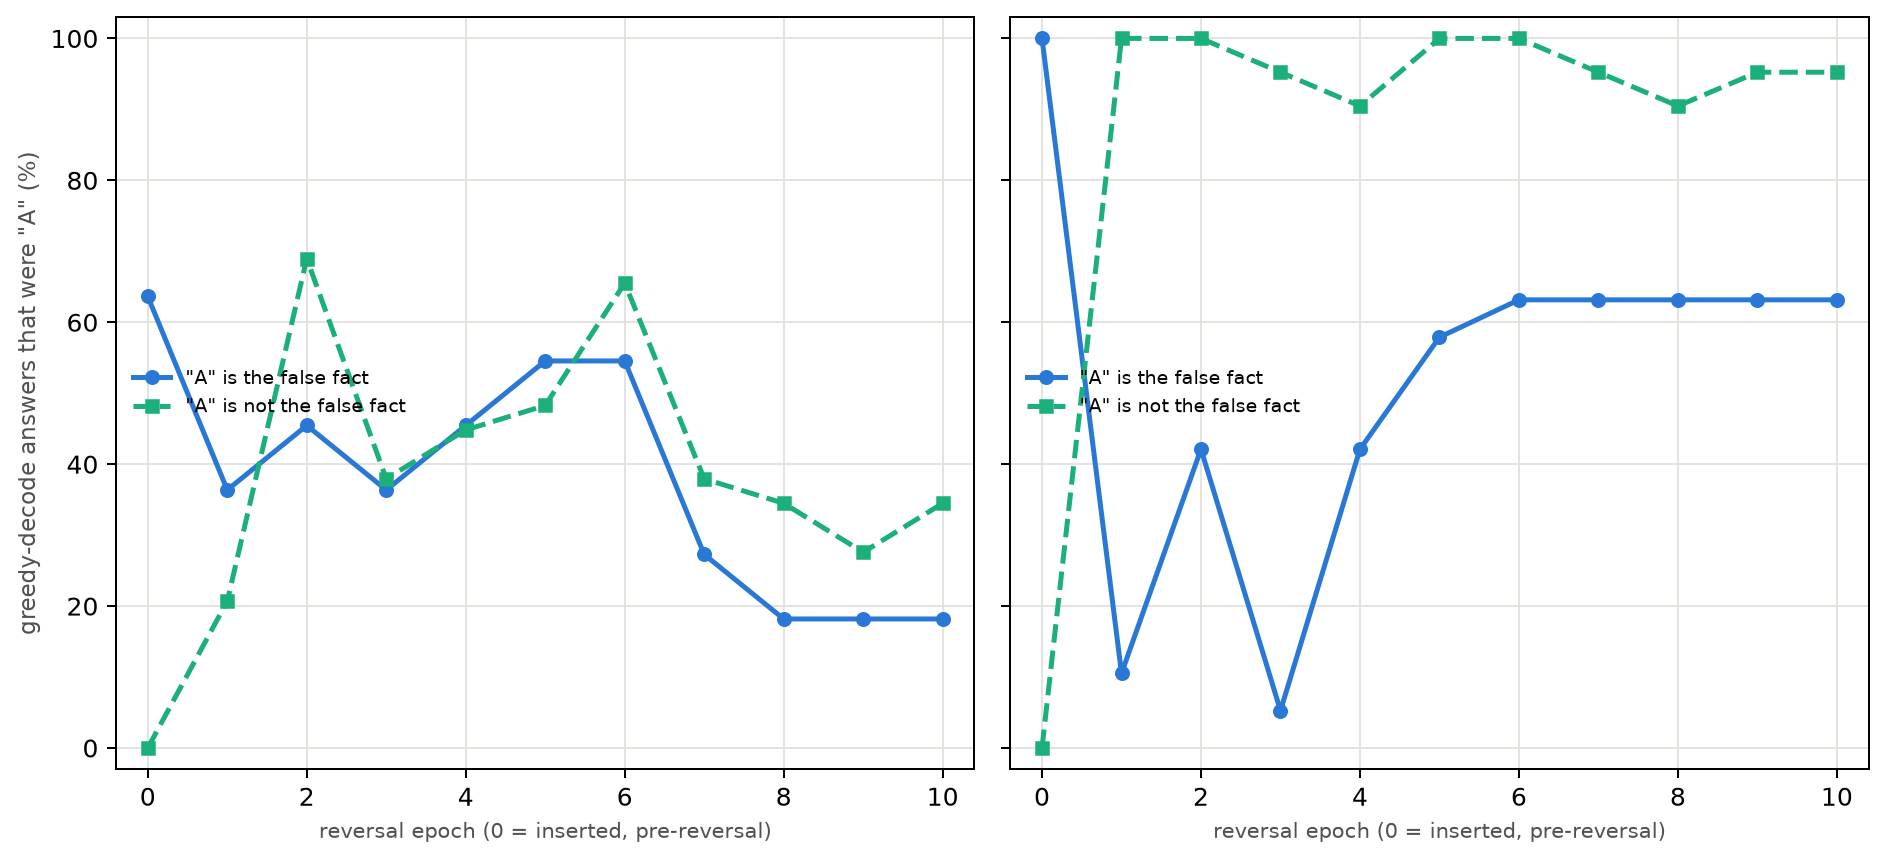
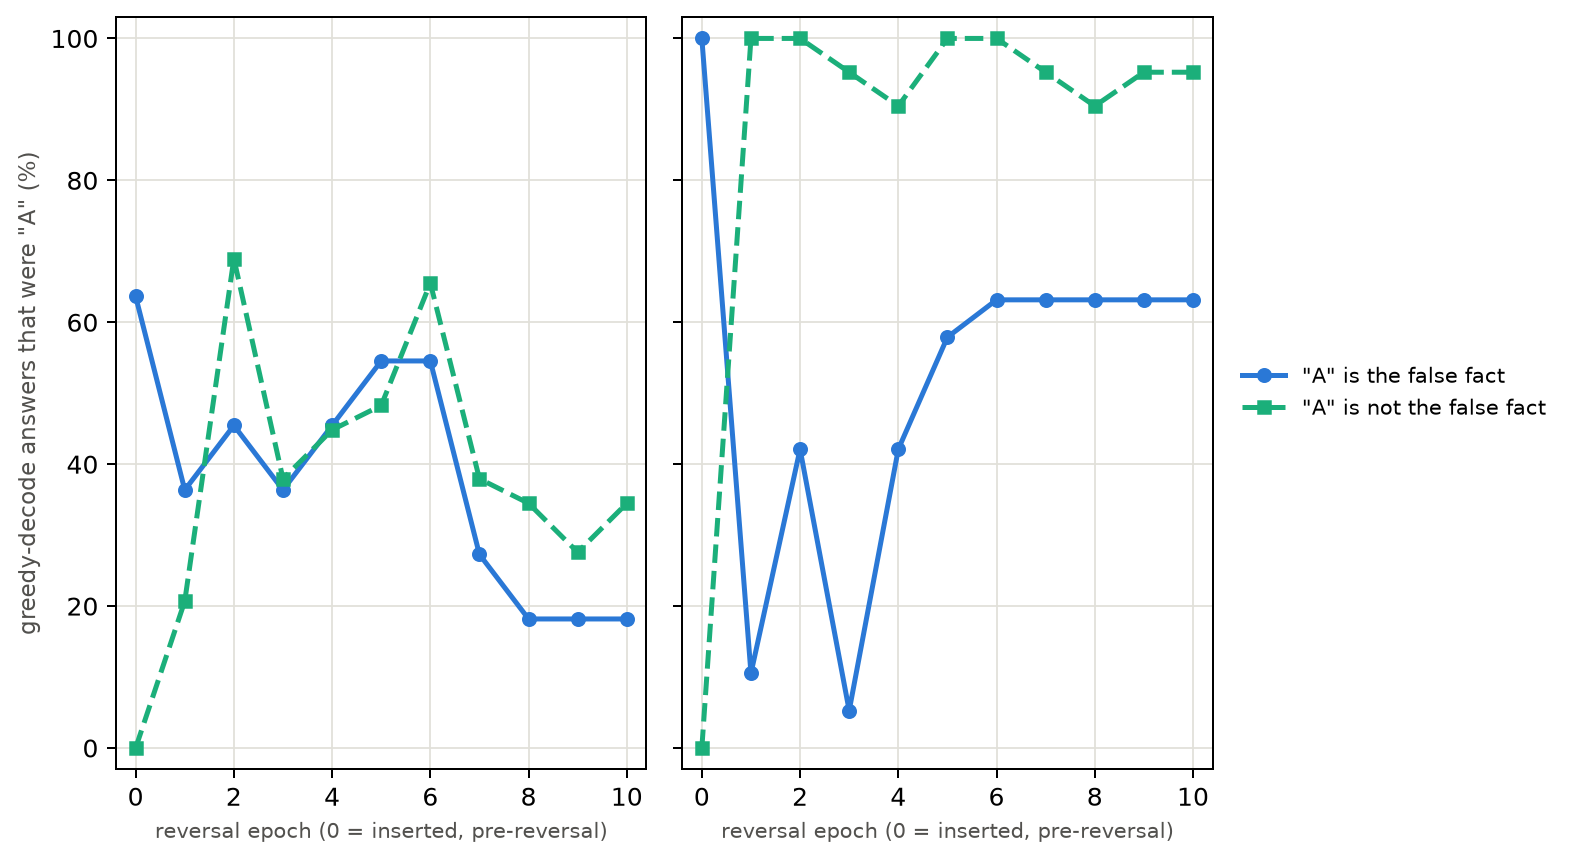
Move Figure 23 legend to right side and remove (ladder) from figure legend labels

diff --git a/scripts/plot_1epoch_vs_5ksteps.py b/scripts/plot_1epoch_vs_5ksteps.py
@@ -544,7 +544,7 @@ def build_figure(spec: ModelSpec, individual: bool = False, seed_match: bool = F
                 ax.errorbar(x1, m1, yerr=s1, fmt="-o", color=COLOR_1EP, lw=1.8, ms=5,
                             capsize=3, elinewidth=1.2, label="1 epoch (1 pass)", zorder=4)
                 ax.errorbar(x5, m5, yerr=s5, fmt="-s", color=COLOR_5K, lw=1.8, ms=5,
-                            capsize=3, elinewidth=1.2, label="fixed 5,000 steps (ladder)", zorder=3)
+                            capsize=3, elinewidth=1.2, label="fixed 5,000 steps", zorder=3)
 
         if overlay_five_k_paths is not None:
             xO, mO, sO = curve(overlay_five_k_docs, overlay_five_k_paths, key)

diff --git a/scripts/plot_reversal_full_epoch_ladder_letterA.py b/scripts/plot_reversal_full_epoch_ladder_letterA.py
@@ -149,10 +149,10 @@ def main() -> int:
         ax.set_axisbelow(True)
         ax.set_ylim(-3, 103)
         ax.set_xlim(-0.4, 10.4)
-        ax.legend(fontsize=7.5, frameon=False, loc="center left")
 
     axes[0].set_ylabel('greedy-decode answers that were "A" (%)', fontsize=9, color=INK_SECONDARY)
-    fig.tight_layout()
+    axes[-1].legend(fontsize=8.5, frameon=False, loc="center left", bbox_to_anchor=(1.02, 0.5))
+    fig.tight_layout(rect=(0, 0, 0.84, 1))
     FIGURE_PATH.parent.mkdir(parents=True, exist_ok=True)
     fig.savefig(FIGURE_PATH, dpi=180, bbox_inches="tight", facecolor="white")
     print(f"wrote {FIGURE_PATH}")
